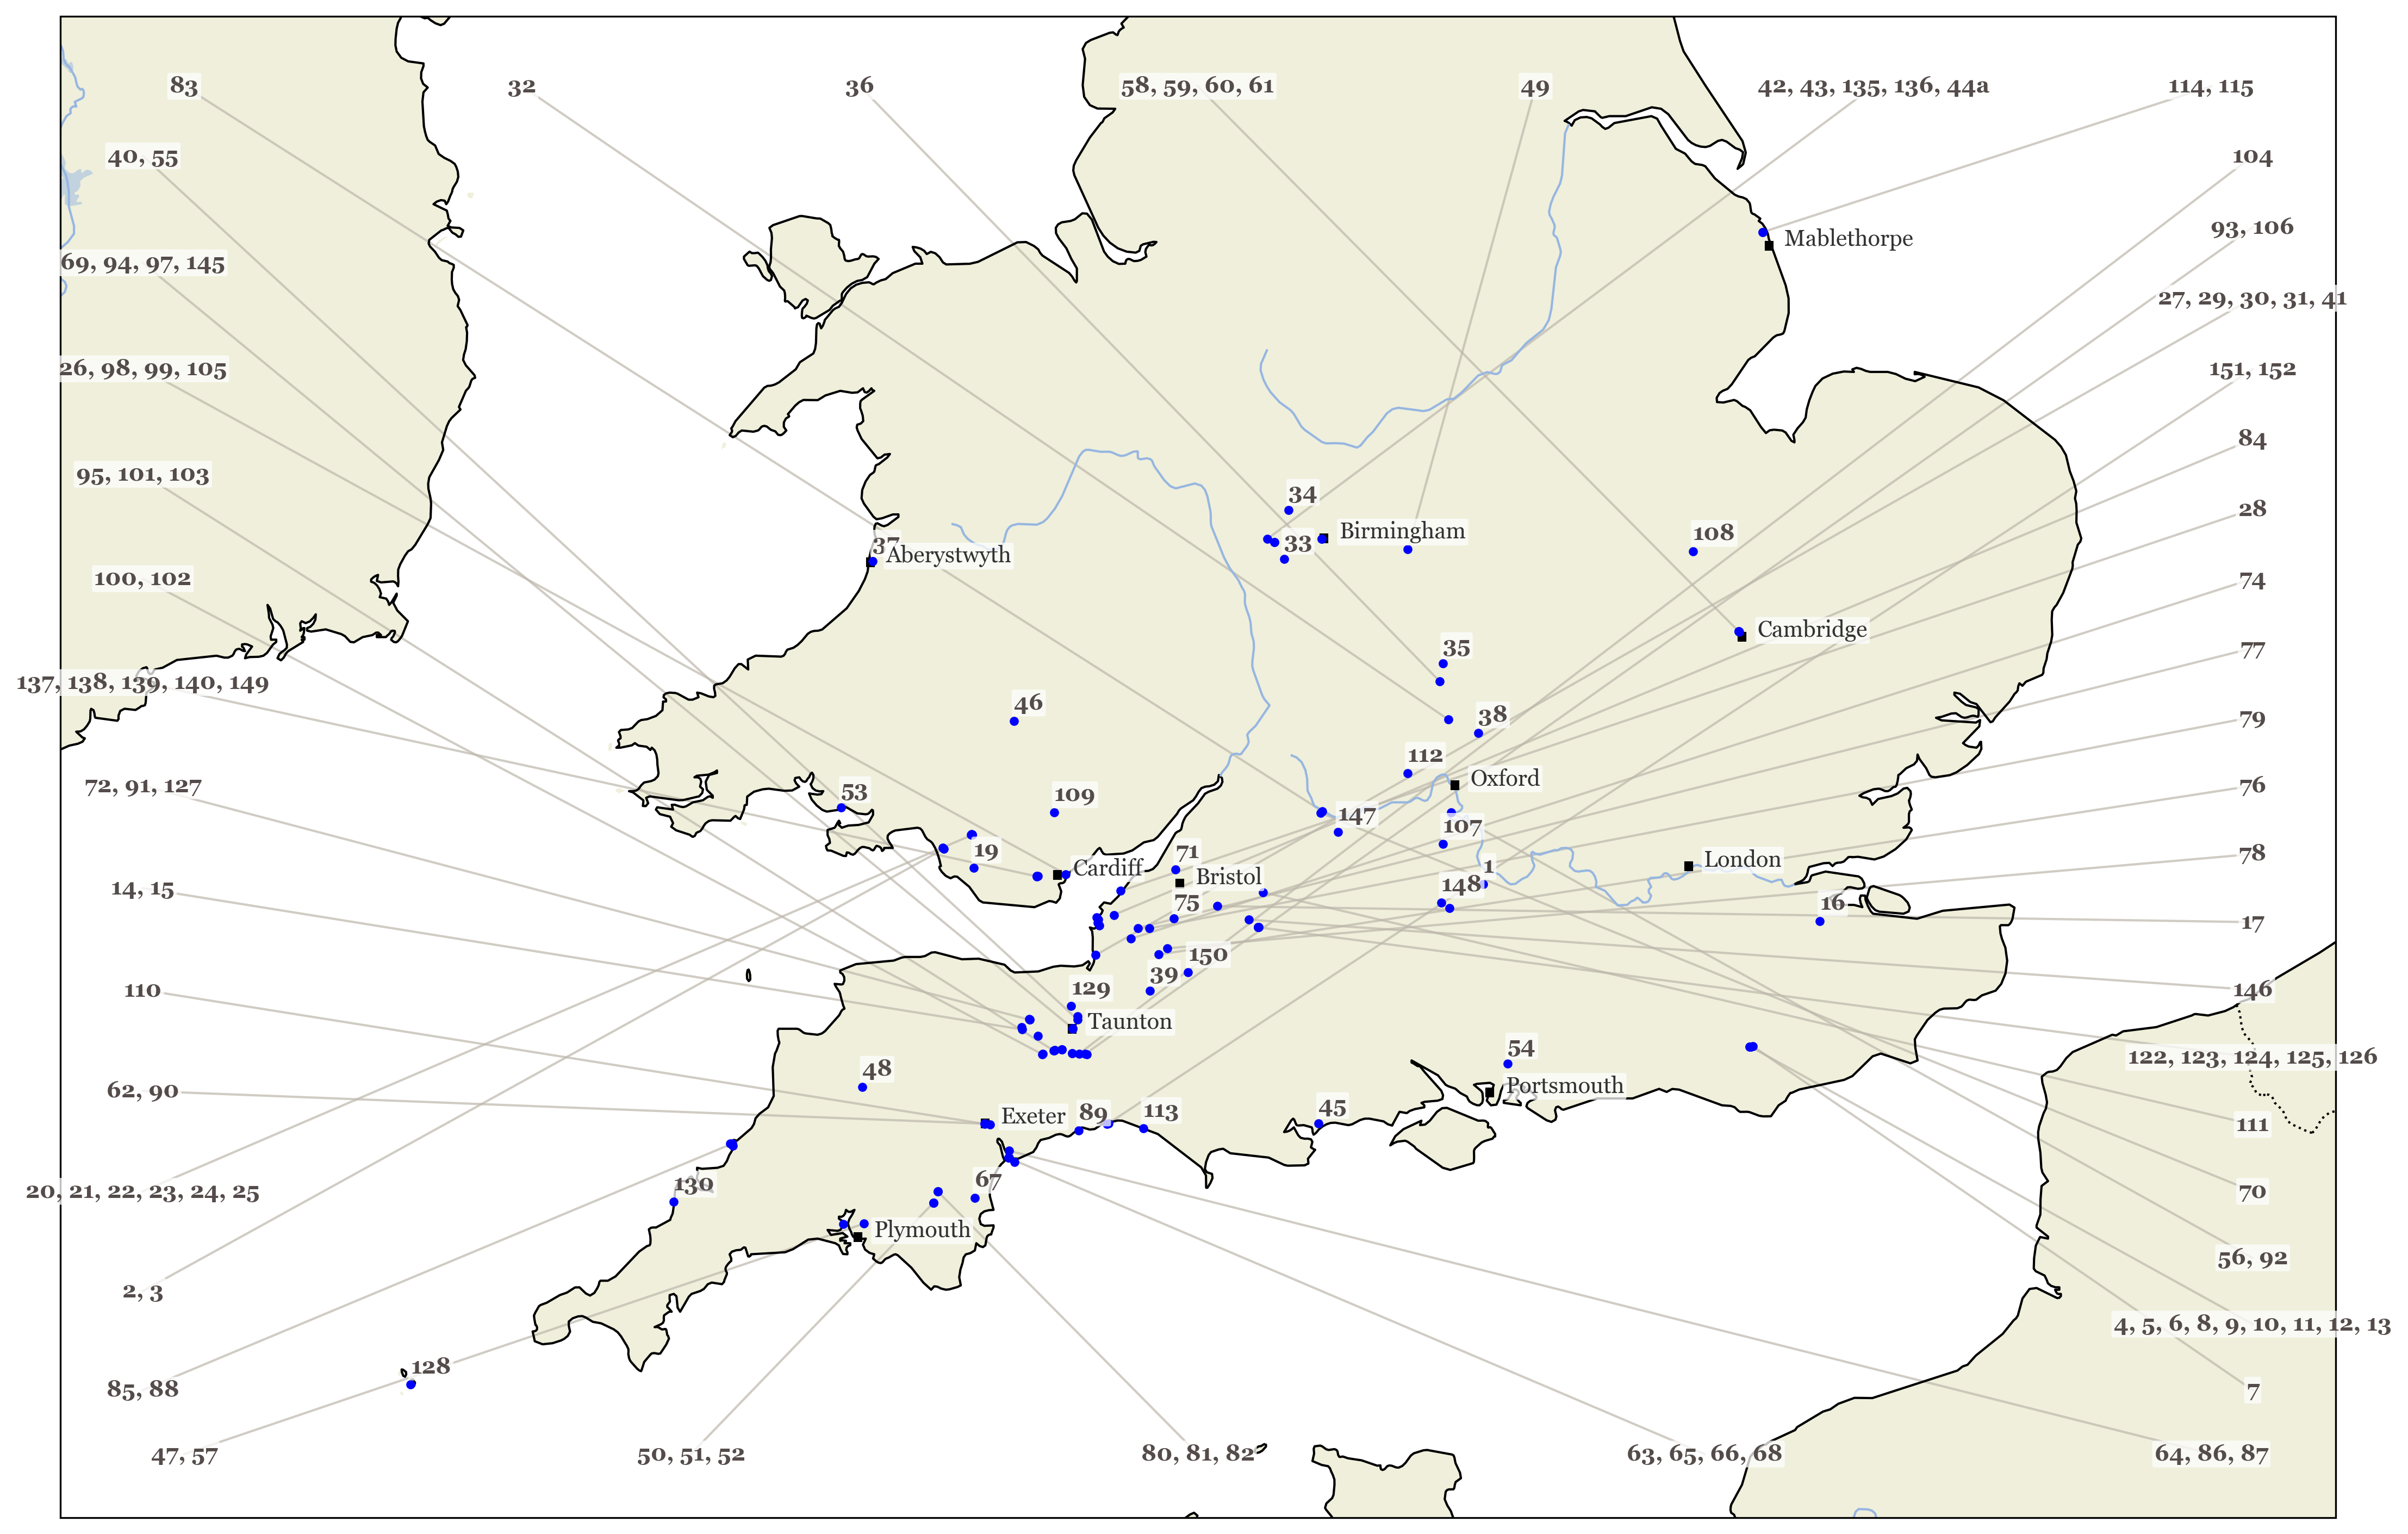
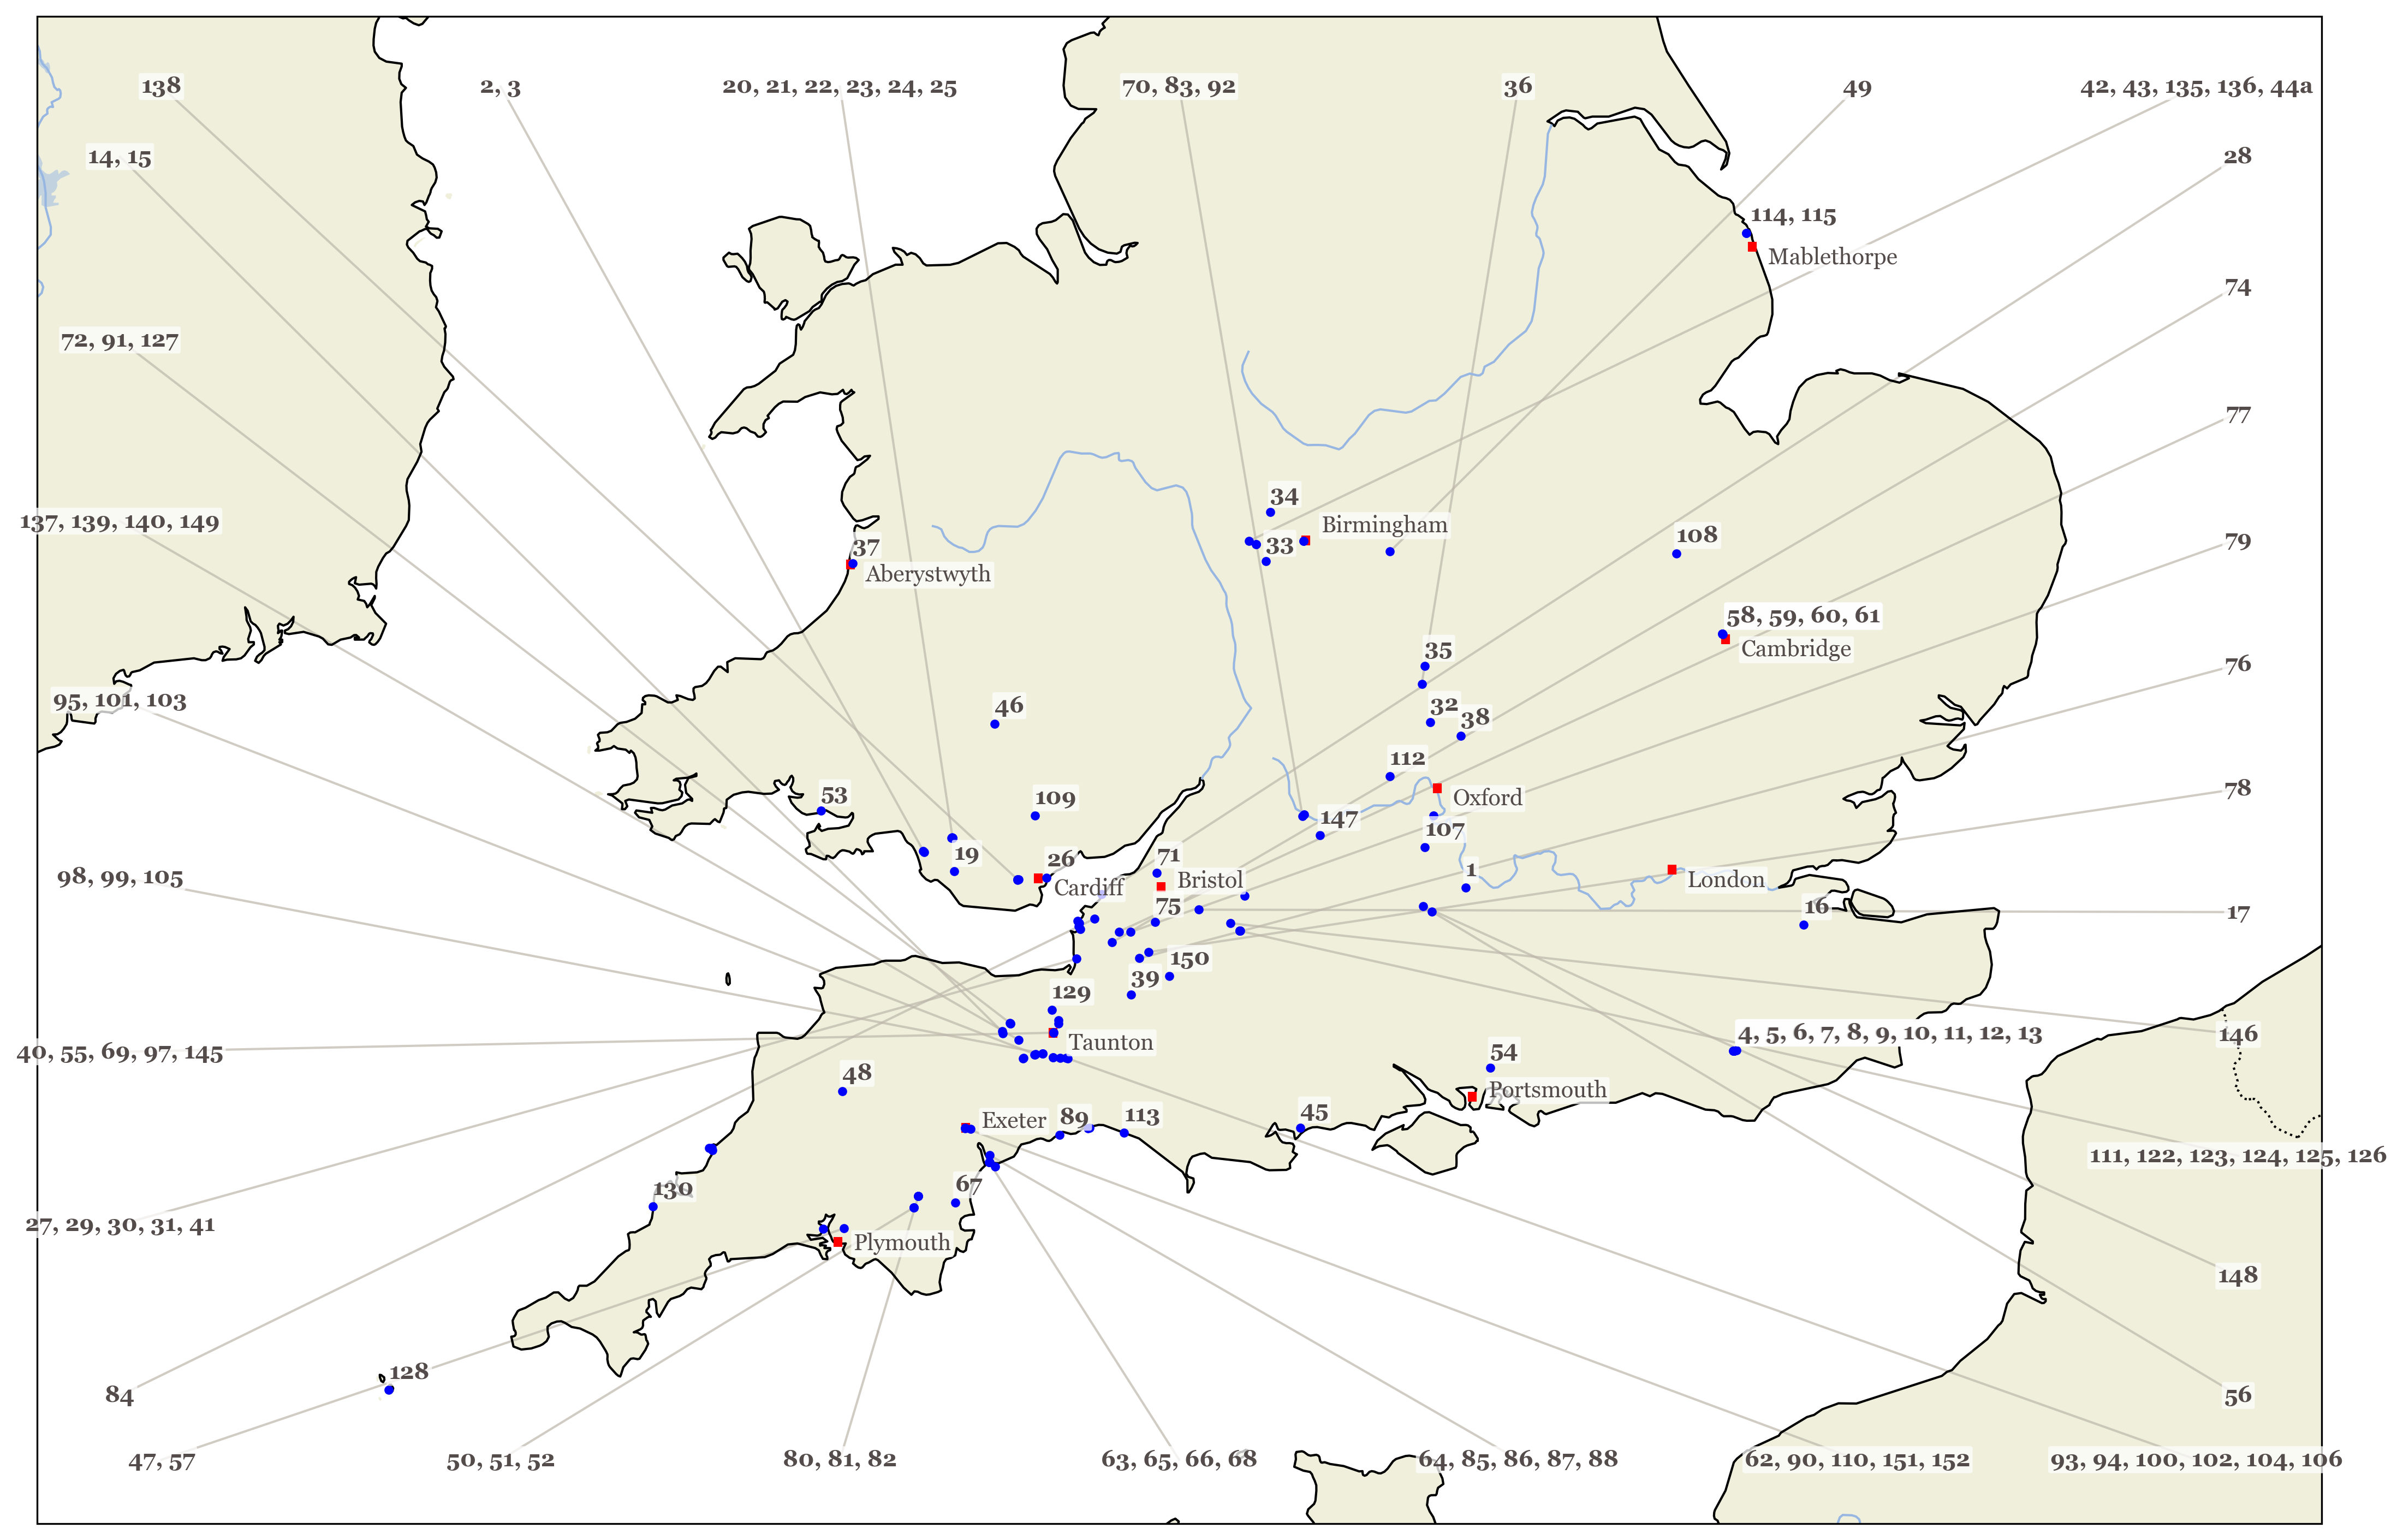
[main] checkpoint

diff --git a/plot_locations.py b/plot_locations.py
@@ -58,7 +58,7 @@ def filterNonUKLocations(locations):
     ]
 
 
-locationsWithDistictLabels=['108', '46', '109', '53', '16', '48', '54', '45', '113', '71', '128', '130', '34', '112', '129', '37', '33', '38', '35', '1', '107', '147', '19', '150', '89', '148', '67', '75', '39']
+locationsWithDistictLabels=['108', '46', '109', '53', '16', '48', '54', '45', '113', '71', '128', '130', '34', '112', '129', '37', '33', '38', '35', '1', '107', '147', '19', '150', '89', '67', '75', '39', '32', '26']
 
 def assign_labels_custom(locations, extent):
     
@@ -108,11 +108,11 @@ def assign_labels_custom(locations, extent):
     locationsWithoutExtremes = [loc for loc in locationsWithoutExtremes if loc not in leftMost]
     print(f"leftMost: {len(leftMost)} locationsWithoutExtremes: {len(locationsWithoutExtremes)}")
     
-    topMost = sorted(locationsWithoutExtremes, key=lambda l: l['lat'], reverse=True)[:15]
+    topMost = sorted(locationsWithoutExtremes, key=lambda l: l['lat'], reverse=True)[:25]
     locationsWithoutExtremes = [loc for loc in locationsWithoutExtremes if loc not in topMost]
     print(f"topMost: {len(topMost)} locationsWithoutExtremes: {len(locationsWithoutExtremes)}")
     
-    bottomMost = sorted(locationsWithoutExtremes, key=lambda l: l['lat'])[:15]
+    bottomMost = sorted(locationsWithoutExtremes, key=lambda l: l['lat'])[:28]
     locationsWithoutExtremes = [loc for loc in locationsWithoutExtremes if loc not in bottomMost]
     print(f"bottomMost: {len(bottomMost)} locationsWithoutExtremes: {len(locationsWithoutExtremes)}")
     
@@ -144,6 +144,7 @@ def assign_labels_custom(locations, extent):
     groups['top'].extend(veryTopMost)
     groups['bottom'].extend(bottomMost)
     groups['distinct'].extend(distinctLocations)
+    groups['isolated'] = []  # New group for isolated clusters
             
     print(f"right: {len(groups['right'])}")
     print(f"left: {len(groups['left'])}")
@@ -152,7 +153,7 @@ def assign_labels_custom(locations, extent):
     print(f"distinct: {len(groups['distinct'])}")
 
     cluster_id = 1
-    def sort_by_coordinate_then_index(locations, coord_key, tolerance=0.01, reverse=True):
+    def sort_by_coordinate_then_index(locations, coord_key, tolerance=0.02, reverse=True):
         nonlocal cluster_id
         sorted_by_coord = sorted(locations, key=lambda loc: loc[coord_key])
         clusters = []
@@ -195,11 +196,68 @@ def assign_labels_custom(locations, extent):
         if reverse:
             result.reverse()
         return result
+    
+    distinctClustersByLabel = {}
 
-    groups['right'] = sort_by_coordinate_then_index(groups['right'], 'lon')
-    groups['left'] = sort_by_coordinate_then_index(groups['left'], 'lon', 0.02, False)
+    groups['right'] = sort_by_coordinate_then_index(groups['right'], 'lon', 0.03)
+    groups['left'] = sort_by_coordinate_then_index(groups['left'], 'lon', 0.03)
     groups['top'] = sort_by_coordinate_then_index(groups['top'], 'lat', 0.02, False)
     groups['bottom'] = sort_by_coordinate_then_index(groups['bottom'], 'lat', 0.02, False)
+    
+    # Identify and move isolated clusters
+    def extract_isolated_clusters(groups, isolation_threshold=0.5):
+        """Extract clusters that are isolated from other clusters/locations"""
+        all_locs = groups['right'] + groups['left'] + groups['top'] + groups['bottom']
+        
+        # Build a map of cluster IDs to their locations
+        cluster_map = {}
+        for loc in all_locs:
+            cluster_id = loc.get('cluster_id')
+            if cluster_id is not None:
+                if cluster_id not in cluster_map:
+                    cluster_map[cluster_id] = []
+                cluster_map[cluster_id].append(loc)
+        
+        # Calculate centroid for each cluster
+        def get_centroid(locs):
+            lat_avg = np.mean([loc['lat'] for loc in locs])
+            lon_avg = np.mean([loc['lon'] for loc in locs])
+            return lat_avg, lon_avg
+        
+        # Calculate great-circle distance in degrees (approximate)
+        def distance_degrees(lat1, lon1, lat2, lon2):
+            return np.sqrt((lat2 - lat1)**2 + (lon2 - lon1)**2)
+        
+        # Identify isolated clusters
+        isolated_cluster_ids = set()
+        for cluster_id, cluster_locs in cluster_map.items():
+            centroid_lat, centroid_lon = get_centroid(cluster_locs)
+            
+            # Find nearest neighbor (any other location or cluster)
+            min_distance = float('inf')
+            for loc in all_locs:
+                if loc.get('cluster_id') != cluster_id:
+                    dist = distance_degrees(centroid_lat, centroid_lon, loc['lat'], loc['lon'])
+                    min_distance = min(min_distance, dist)
+            
+            # If no nearby neighbors, mark as isolated
+            if min_distance > isolation_threshold:
+                isolated_cluster_ids.add(cluster_id)
+        
+        # Move isolated clusters to isolated group
+        for edge in ['right', 'left', 'top', 'bottom']:
+            isolated_locs = [loc for loc in groups[edge] 
+                           if loc.get('cluster_id') in isolated_cluster_ids]
+            groups[edge] = [loc for loc in groups[edge] 
+                          if loc.get('cluster_id') not in isolated_cluster_ids]
+            groups['isolated'].extend(isolated_locs)
+        
+        print(f"Isolated clusters: {len(isolated_cluster_ids)}")
+    
+    extract_isolated_clusters(groups, isolation_threshold=1)
+    
+    print(groups)
+    
     return groups
     
     """
@@ -247,23 +305,23 @@ def plot_uk_map(locations, output_path, dpi=300):
 
     # Key UK cities (lat, lon)
     cities = {
-        'London': (51.5074, -0.1278),
-        'Birmingham': (52.4862, -1.8904),
-        'Cardiff': (51.4816, -3.1791),
-        'Bristol': (51.4545, -2.5879),
-        'Exeter': (50.7260, -3.5275),
-        'Cambridge': (52.1951, 0.1313),
-        'Taunton': (51.0153, -3.1068),
-        'Plymouth': (50.3755, -4.1427),
-        'Portsmouth': (50.8198, -1.0880),
-        'Oxford': (51.7520, -1.2577),
-        'Aberystwyth': (52.4153, -4.0829),
-        'Mablethorpe': (53.3409, 0.2611)
+        'London': (51.5074, -0.1278, -0.05),
+        'Birmingham': (52.4862, -1.8904, 0.025),
+        'Cardiff': (51.4816, -3.1791, -0.05),
+        'Bristol': (51.4545, -2.5879, 0),
+        'Exeter': (50.7260, -3.5275, 0),
+        'Cambridge': (52.1951, 0.1313, -0.05),
+        'Taunton': (51.0153, -3.1068, -0.05),
+        'Plymouth': (50.3755, -4.1427, -0.025),
+        'Portsmouth': (50.8198, -1.0880, 0),
+        'Oxford': (51.7520, -1.2577, -0.05),
+        'Aberystwyth': (52.4153, -4.0829, -0.05),
+        'Mablethorpe': (53.3409, 0.2611, -0.05)
     }
-    for city, (lat, lon) in cities.items():
-        ax.plot(lon, lat, 's', color='black', markersize=3, transform=ccrs.PlateCarree())
+    for city, (lat, lon, labelLat) in cities.items():
+        ax.plot(lon, lat, 's', color='red', markersize=3, transform=ccrs.PlateCarree())
         ax.text(
-            lon+0.075, lat, city, fontsize=10, color='#333333', transform=ccrs.PlateCarree(),
+            lon+0.075, lat+labelLat, city, fontsize=10, color='#544C4A', transform=ccrs.PlateCarree(),
             bbox=dict(facecolor='white', edgecolor='none', boxstyle='round,pad=0.1', alpha=0.75),
             zorder=4
         )
@@ -305,6 +363,18 @@ def plot_uk_map(locations, output_path, dpi=300):
             lx, ly, label,
             fontsize=10, color='#544C4A', weight='bold',
             ha='center', va='center', zorder=3,
+            bbox=dict(facecolor='white', edgecolor='none', boxstyle='round,pad=0.1', alpha=0.75),
+            transform=ccrs.PlateCarree()
+        )
+
+    # Draw isolated cluster labels directly on the map
+    for loc in edge_labels['isolated']:
+        ax.plot(loc['lon'], loc['lat'], 'bo', markersize=3, transform=ccrs.PlateCarree())
+        label = loc.get('cluster_label', str(loc['index']))
+        ax.text(
+            loc['lon'] + 0.02, loc['lat'] + 0.02, label,
+            fontsize=10, color='#544C4A', weight='bold',
+            ha='left', va='bottom', zorder=3,
             bbox=dict(facecolor='white', edgecolor='none', boxstyle='round,pad=0.1', alpha=0.75),
             transform=ccrs.PlateCarree()
         )